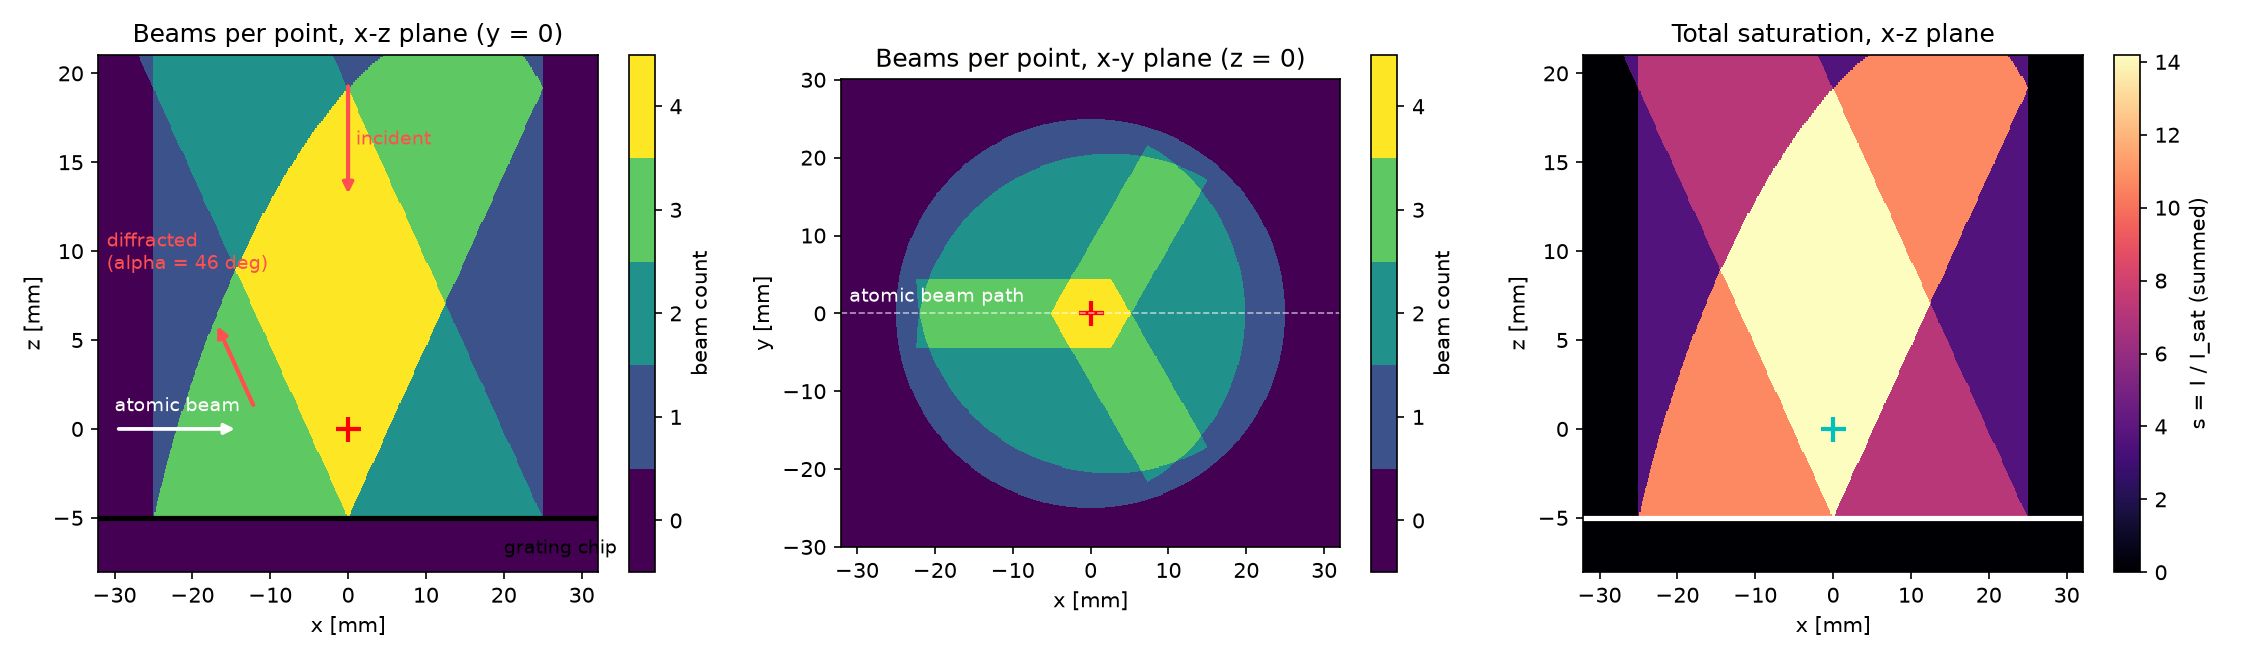
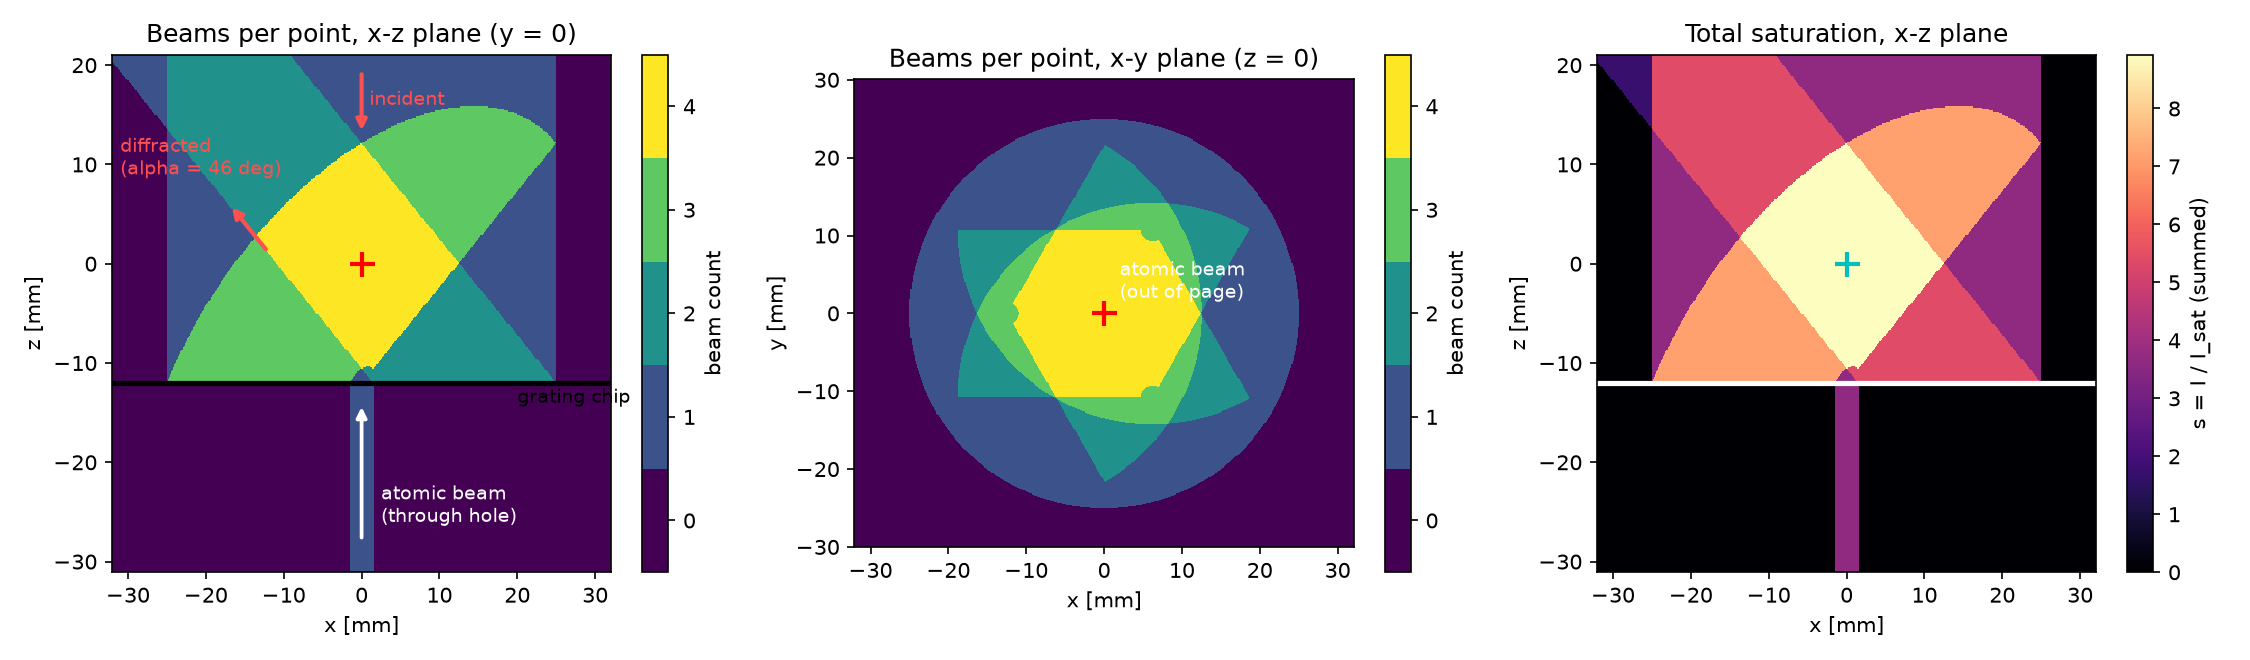
Grating-MOT example: axial through-hole loading geometry
The atomic beam now travels along +z, head-on into the incident MOT
beam, entering from below through a hole in the grating center (the
previous transverse-loading geometry was wrong for this design). The
incident beam transmitted by the hole forms a downward pencil beam that
Doppler-slows atoms below the chip, with the quadrupole field providing
a built-in Zeeman-slower ramp (resonance velocity ~40 m/s at the launch
plane falling to ~7 m/s at the trap).

Key physics found by deterministic mean-force tracing: at s0 ~ 4 the
pencil is a wall, not a matched slower — every atom below the
punch-through speed (~45 m/s) is driven to rest at the stall depth
where the Zeeman shift detunes the light at v = 0,
|z| ~ hbar(|delta| + Gamma/2)/(mu_eff * 2b') ~ 8.5 mm. With the chip
shallower than that (5 mm) atoms stall below the surface and are
expelled (capture ~ 0); with the chip at 12 mm the stall point lies
inside the trap volume and the simulation captures with ~unity
probability over 19-44 m/s, i.e. 1.4e-4 of the 600 K beam flux.

Changes: hole in chip + transmitted pencil in the incident profile,
hole cut from the sector prisms, axial oven-beam sampling with a
--vmin/--vmax flux window, chip default moved to -12 mm with the
stall-depth design rule documented, axial-slowing diagnostic table,
updated plots/GIF extents and chip-hit clipping, docstring physics
notes.

diff --git a/example/mot/mmwave_mot.py b/example/mot/mmwave_mot.py
@@ -3,8 +3,6 @@
 Geometry (all built from the general light-matter parts, no gMOT code
 in the library):
 
-- A hot oven emits a collimated Rb85 atomic beam (600 K, 2 mm diameter,
-  no Zeeman slower) traveling along +x through the trap center.
 - A single uniform (top-hat) MOT beam, 50 mm diameter, 120 mW,
   circularly polarized, propagates along -z — the quadrupole coil axis
   (the strong-gradient direction).
@@ -14,6 +12,12 @@ in the library):
   Handedness flips on diffraction, and each diffracted beam is confined
   to the sheared triangular prism defined by back-projecting onto its
   sector (`LaserBeam.profile`).
+- A hot oven below the chip emits a collimated Rb85 atomic beam (600 K,
+  2 mm diameter, no Zeeman slower) traveling along +z — head-on into
+  the incident MOT beam — through a small hole in the grating center.
+  The incident beam leaks through that hole as a downward pencil beam,
+  so incoming atoms are Doppler-slowed below the chip before they ever
+  reach the trap volume (through-hole loading).
 
 Local polarization projection: at every timestep, each beam's helicity
 is decomposed into sigma+ / pi / sigma- intensity fractions along the
@@ -30,21 +34,27 @@ below it simply see zero light (they are lost in practice and never
 counted as captured); the zeroth diffraction order and grating losses
 are absorbed into the per-sector efficiency.
 
-Two force imbalances shape the trajectories:
+Forces shaping the loading dynamics:
 
 - Static balance: the z-momentum flux ratio of diffracted to incident
   light is exactly `3 * eta` — the 1/cos(alpha) intensity compression
   of each diffracted beam cancels the cos(alpha) projection of its
   push. Only `eta = 1/3` balances; larger eta ejects slow atoms upward,
   smaller lets the incident beam press the cloud toward the chip.
-- Doppler tilt (why the incoming flux sags toward the chip): for an
-  atom crossing at ~20 m/s the incident beam is perpendicular to the
-  motion (no Doppler shift, full scattering rate, pushing down), while
-  the up-pushing diffracted beams with a co-propagating +x component
-  are Doppler-shifted ~1.5 Gamma out of resonance. The one diffracted
-  beam that is counter-propagating (and Doppler-enhanced) only exists
-  downstream of the trap center. Net: every fast atom is pushed toward
-  the chip while it approaches, independent of eta.
+- Axial slowing: a rising atom is head-on with the incident beam
+  (Doppler-enhanced, resonant near `v = |delta|/k` shifted up by the
+  Zeeman term, which grows with depth — a built-in Zeeman-slower ramp)
+  while the three diffracted beams co-propagate with it and are
+  Doppler-suppressed. On axis the transverse pushes of the three
+  diffracted beams cancel by symmetry.
+- Stall depth sets the chip position: at s0 ~ 4 the pencil beam is a
+  wall, not a gentle slower — every atom below the punch-through speed
+  (~45 m/s here) is driven to rest at the depth where the Zeeman shift
+  detunes the light at v = 0, `|z| ~ hbar(|delta| + Gamma/2) /
+  (mu_eff * 2b')` (~8.5 mm). If the chip is shallower than that, atoms
+  stall below the surface and are expelled back down the beamline
+  (capture ~ 0); if deeper, they stall inside the trap volume and are
+  captured with near-unity probability over the whole window.
 
 Because a 600 K beam is far faster than any MOT capture velocity, only
 the slow Boltzmann tail can be captured. The simulation samples the
@@ -99,13 +109,21 @@ GRADIENT_G_PER_CM = 5.0  # radial; axial (beam axis) is twice this
 # --- grating chip --------------------------------------------------------
 DEFLECTION_ALPHA_RAD = np.deg2rad(46.0)
 SECTOR_AZIMUTHS_RAD = np.deg2rad([0.0, 120.0, 240.0])
-DIFFRACTION_EFFICIENCY = 2.0 / 3.0  # power fraction into each +1 order
-CHIP_Z_M = -5.0e-3  # chip surface below the quadrupole zero
+# Power fraction into each sector's used +1 order. Radiation-pressure
+# balance requires 3 * eta = 1; other values give no stable trap.
+DIFFRACTION_EFFICIENCY = 1.0 / 3.0
+# Chip depth below the quadrupole zero. Must exceed the pencil-beam
+# stall depth |z| ~ hbar(|delta| + Gamma/2) / (mu_eff * 2b') (~8.5 mm
+# here): incoming atoms decelerate to rest at that depth, and only if
+# the stall point lies ABOVE the chip - inside the trap volume - are
+# they captured instead of falling back down the beamline.
+CHIP_Z_M = -12.0e-3
+GRATING_HOLE_RADIUS_M = 1.5e-3  # central hole passing the atomic beam
 
 # --- atomic beam ---------------------------------------------------------
 OVEN_TEMPERATURE_K = 600.0
-ATOM_BEAM_RADIUS_M = 1.0e-3  # 2 mm diameter, aimed through the trap center
-ATOM_BEAM_START_X_M = -30.0e-3
+ATOM_BEAM_RADIUS_M = 1.0e-3  # 2 mm diameter, aimed up the +z axis
+ATOM_BEAM_START_Z_M = -30.0e-3  # launch plane below the chip
 DIVERGENCE_HALF_ANGLE_RAD = 10.0e-3  # residual collimation spread
 
 
@@ -122,7 +140,11 @@ def build_beams(detuning_hz: float) -> list[LaserBeam]:
     def incident_profile(positions):
         pos = np.asarray(positions, dtype=float)
         rho = np.hypot(pos[..., 0], pos[..., 1])
-        return ((rho <= MOT_BEAM_RADIUS_M) & (pos[..., 2] >= CHIP_Z_M)).astype(float)
+        above_chip = (rho <= MOT_BEAM_RADIUS_M) & (pos[..., 2] >= CHIP_Z_M)
+        # The chip blocks the beam except for the central hole, which
+        # transmits a downward pencil beam into the atomic-beam path.
+        through_hole = (rho <= GRATING_HOLE_RADIUS_M) & (pos[..., 2] < CHIP_Z_M)
+        return (above_chip | through_hole).astype(float)
 
     beams = [
         LaserBeam(
@@ -173,7 +195,12 @@ def _sector_profile(direction: np.ndarray, phi_center_rad: float):
         rho = np.hypot(foot_x, foot_y)
         dphi = np.arctan2(foot_y, foot_x) - phi_center_rad
         dphi = (dphi + np.pi) % (2.0 * np.pi) - np.pi
-        inside = (t >= 0.0) & (rho <= MOT_BEAM_RADIUS_M) & (np.abs(dphi) <= np.pi / 3.0)
+        inside = (
+            (t >= 0.0)
+            & (rho <= MOT_BEAM_RADIUS_M)
+            & (rho >= GRATING_HOLE_RADIUS_M)  # no grating in the hole
+            & (np.abs(dphi) <= np.pi / 3.0)
+        )
         return inside.astype(float)
 
     return profile
@@ -193,51 +220,57 @@ def build_system(detuning_gamma: float) -> LightMatterSystem:
 
 
 def sample_oven_beam(
-    n_atoms: int, v_max: float, rng: np.random.Generator
+    n_atoms: int, v_min: float, v_max: float, rng: np.random.Generator
 ) -> tuple[np.ndarray, np.ndarray, float]:
-    """Sample the slow tail of the effusive beam.
+    """Sample a slow-velocity window of the effusive beam.
 
     Returns positions, velocities, and the fraction of the total beam
-    flux carried by the simulated window `v < v_max` (analytic:
-    `1 - exp(-u)(1 + u)` with `u = v_max^2 / 2 sigma^2` for the
-    `v^3 exp(-v^2/2 sigma^2)` flux distribution).
+    flux carried by the simulated window `v_min < v < v_max`. For the
+    `v^3 exp(-v^2/2 sigma^2)` flux distribution the cumulative fraction
+    below `v` is `F(v) = 1 - exp(-u)(1 + u)` with `u = v^2 / 2 sigma^2`.
     """
 
     sigma = np.sqrt(BOLTZMANN_CONSTANT_J_PER_K * OVEN_TEMPERATURE_K / SPECIES.mass_kg)
-    u = v_max**2 / (2.0 * sigma**2)
-    window_fraction = float(1.0 - np.exp(-u) * (1.0 + u))
 
-    # Rejection sampling of f(v) ~ v^3 exp(-v^2/2s^2) on (0, v_max]:
-    # envelope v^3 (inverse-CDF v_max * u^(1/4)), accept with the
-    # Gaussian factor (nearly 1 for v_max << sigma).
+    def flux_cdf(v: float) -> float:
+        u = v**2 / (2.0 * sigma**2)
+        return float(1.0 - np.exp(-u) * (1.0 + u))
+
+    window_fraction = flux_cdf(v_max) - flux_cdf(v_min)
+
+    # Rejection sampling of f(v) ~ v^3 exp(-v^2/2s^2) on [v_min, v_max]:
+    # envelope v^3 (inverse CDF of v^3 restricted to the window), accept
+    # with the Gaussian factor (nearly 1 for v_max << sigma).
     speeds = np.empty(0)
     while speeds.size < n_atoms:
-        candidates = v_max * rng.random(2 * n_atoms) ** 0.25
+        quantile = rng.random(2 * n_atoms)
+        candidates = (v_min**4 + quantile * (v_max**4 - v_min**4)) ** 0.25
         accept = rng.random(candidates.size) < np.exp(
             -(candidates**2) / (2.0 * sigma**2)
         )
         speeds = np.concatenate([speeds, candidates[accept]])
     speeds = speeds[:n_atoms]
 
-    # Transverse launch position: uniform disc aimed through the origin.
+    # Transverse launch position: uniform disc on the +z axis, below the
+    # chip, aimed up through the grating hole at the trap center.
     disc_phi = rng.uniform(0.0, 2.0 * np.pi, n_atoms)
     disc_r = ATOM_BEAM_RADIUS_M * np.sqrt(rng.random(n_atoms))
     positions = np.column_stack(
         [
-            np.full(n_atoms, ATOM_BEAM_START_X_M),
             disc_r * np.cos(disc_phi),
             disc_r * np.sin(disc_phi),
+            np.full(n_atoms, ATOM_BEAM_START_Z_M),
         ]
     )
 
-    # Residual divergence: velocity tilted by a small random angle.
+    # Residual divergence: velocity tilted by a small random angle off +z.
     theta = DIVERGENCE_HALF_ANGLE_RAD * np.sqrt(rng.random(n_atoms))
     tilt_phi = rng.uniform(0.0, 2.0 * np.pi, n_atoms)
     velocities = np.column_stack(
         [
-            speeds * np.cos(theta),
             speeds * np.sin(theta) * np.cos(tilt_phi),
             speeds * np.sin(theta) * np.sin(tilt_phi),
+            speeds * np.cos(theta),
         ]
     )
     return positions, velocities, window_fraction
@@ -272,23 +305,30 @@ def print_diagnostics(system: LightMatterSystem) -> None:
         f = system.mean_radiation_force(np.array([r]), np.zeros((1, 3)))[0]
         print(f"  {label}: F = ({f[0]:+.2e}, {f[1]:+.2e}, {f[2]:+.2e}) N")
 
-    print("\nDeceleration vs longitudinal velocity (atom at origin):")
-    print("  v_x [m/s]   a_x [km/s^2]")
-    for vx in (2.0, 5.0, 10.0, 15.0, 20.0, 25.0, 30.0):
-        f = system.mean_radiation_force(np.zeros((1, 3)), np.array([[vx, 0.0, 0.0]]))[0]
-        print(f"  {vx:8.1f}   {f[0] / SPECIES.mass_kg / 1e3:+12.2f}")
+    print(
+        "\nAxial deceleration vs climb velocity "
+        "(in the pencil beam below the chip, and at the trap center):"
+    )
+    below = np.array([[0.0, 0.0, -15.0e-3]])
+    center = np.zeros((1, 3))
+    print("  v_z [m/s]   a_z(-15 mm) [km/s^2]   a_z(0) [km/s^2]")
+    for vz in (2.0, 5.0, 10.0, 15.0, 20.0, 25.0, 30.0):
+        v = np.array([[0.0, 0.0, vz]])
+        a_below = system.mean_radiation_force(below, v)[0, 2] / SPECIES.mass_kg / 1e3
+        a_center = system.mean_radiation_force(center, v)[0, 2] / SPECIES.mass_kg / 1e3
+        print(f"  {vz:8.1f}   {a_below:+18.2f}   {a_center:+14.2f}")
     print()
 
 
 def _beams_figure(system: LightMatterSystem, save: bool) -> None:
     """Map the four beam volumes: counts and total saturation.
 
-    Left: how many beams illuminate each point of the vertical x-z plane
-    (y = 0, the plane of the atomic beam). Middle: the same count in the
-    horizontal x-y plane at the trap height, showing the three sector
-    prisms. Right: total saturation in x-z. The atomic beam enters along
-    z = 0 from the left; full radiation-pressure balance exists only
-    where all four beams overlap.
+    Left: how many beams illuminate each point of the vertical x-z
+    plane. Middle: the same count in the horizontal x-y plane at the
+    trap height, showing the three sector prisms. Right: total
+    saturation in x-z. The atomic beam climbs the +z axis from below,
+    through the pencil beam transmitted by the grating hole; full
+    radiation-pressure balance exists only where all four beams overlap.
     """
 
     import matplotlib
@@ -312,7 +352,7 @@ def _beams_figure(system: LightMatterSystem, save: bool) -> None:
         return count, total
 
     x_mm = np.linspace(-32.0, 32.0, 481)
-    z_mm = np.linspace(CHIP_Z_M * 1e3 - 3.0, 21.0, 241)
+    z_mm = np.linspace(ATOM_BEAM_START_Z_M * 1e3 - 1.0, 21.0, 361)
     y_mm = np.linspace(-30.0, 30.0, 451)
     count_xz, total_xz = sample_plane(x_mm * 1e-3, z_mm * 1e-3, "xz")
     count_xy, _ = sample_plane(x_mm * 1e-3, y_mm * 1e-3, "xy")
@@ -329,10 +369,12 @@ def _beams_figure(system: LightMatterSystem, save: bool) -> None:
     )
     axes[0].plot(0.0, 0.0, "r+", ms=12, mew=2)
     axes[0].annotate(
-        "", xy=(-14.0, 0.0), xytext=(-30.0, 0.0),
+        "", xy=(0.0, -14.0), xytext=(0.0, -28.0),
         arrowprops=dict(arrowstyle="-|>", color="w", lw=1.8),
     )
-    axes[0].annotate("atomic beam", (-30.0, 1.0), color="w", fontsize=9)
+    axes[0].annotate(
+        "atomic beam\n(through hole)", (2.5, -26.0), color="w", fontsize=9
+    )
     axes[0].annotate(
         "", xy=(0.0, 13.0), xytext=(0.0, 19.5),
         arrowprops=dict(arrowstyle="-|>", color="#ff5050", lw=2.0),
@@ -361,8 +403,9 @@ def _beams_figure(system: LightMatterSystem, save: bool) -> None:
         x_mm, y_mm, count_xy, cmap=count_cmap, vmin=-0.5, vmax=4.5, shading="auto"
     )
     axes[1].plot(0.0, 0.0, "r+", ms=12, mew=2)
-    axes[1].axhline(0.0, color="w", lw=0.8, ls="--", alpha=0.6)
-    axes[1].annotate("atomic beam path", (-31.0, 1.5), color="w", fontsize=9)
+    axes[1].annotate(
+        "atomic beam\n(out of page)", (2.0, 2.0), color="w", fontsize=9
+    )
     axes[1].set_xlabel("x [mm]")
     axes[1].set_ylabel("y [mm]")
     axes[1].set_title("Beams per point, x-y plane (z = 0)")
@@ -390,10 +433,16 @@ def main() -> None:
     parser = argparse.ArgumentParser(description=__doc__)
     parser.add_argument("--atoms", type=int, default=250)
     parser.add_argument(
+        "--vmin",
+        type=float,
+        default=0.0,
+        help="lower edge of the simulated velocity window [m/s]",
+    )
+    parser.add_argument(
         "--vmax",
         type=float,
-        default=30.0,
-        help="upper edge of the simulated slow-velocity window [m/s]",
+        default=55.0,
+        help="upper edge of the simulated velocity window [m/s]",
     )
     parser.add_argument("--duration-ms", type=float, default=30.0)
     parser.add_argument("--detuning-gamma", type=float, default=DETUNING_GAMMA)
@@ -433,7 +482,7 @@ def main() -> None:
         return
     rng = np.random.default_rng(args.seed)
     positions, velocities, window_fraction = sample_oven_beam(
-        args.atoms, args.vmax, rng
+        args.atoms, args.vmin, args.vmax, rng
     )
 
     s_inc = incident_saturation()
@@ -457,7 +506,7 @@ def main() -> None:
     note = "" if abs(balance - 1.0) < 0.05 else "  <-- UNBALANCED, no stable trap"
     print(f"  z-momentum balance  : 3*eta = {balance:.2f} (1.00 = balanced){note}")
     print(
-        f"  simulated window    : v < {args.vmax:.0f} m/s = "
+        f"  simulated window    : {args.vmin:.0f} < v < {args.vmax:.0f} m/s = "
         f"{window_fraction:.2e} of the beam flux\n"
     )
 
@@ -547,9 +596,9 @@ def _render_gif(result, system: LightMatterSystem) -> None:
         plane="xz",
         beams=system.beams,
         doppler_limit_uK=system.species.doppler_temperature_uK,
-        # Asymmetric window: keep the grating chip (z = -10 mm) and the
-        # incoming beam path in view rather than auto-centering.
-        extent_mm=(-32.0, 32.0, -13.0, 18.0),
+        # Asymmetric window: keep the grating chip and the atomic-beam
+        # climb from below in view rather than auto-centering.
+        extent_mm=(-22.0, 22.0, ATOM_BEAM_START_Z_M * 1e3 - 1.0, 20.0),
         n_frames=80,
         fps=16,
         dpi=85,
@@ -566,12 +615,15 @@ def _plot(result, captured, save: bool, show: bool = False) -> None:
 
     fig, axes = plt.subplots(1, 3, figsize=(14, 4.2))
 
-    # x-z trajectories with the chip and grating sketch. Atoms that hit
-    # the chip are not propagated as a physical collision (they only see
-    # zero light below it), so clip their trajectories at the surface.
+    # x-z trajectories with the chip sketch. The chip is not a physical
+    # barrier in the model, so clip an atom's trace once it is below the
+    # surface while outside the hole (i.e. once it has hit the chip).
     traj_mm = result.trajectory_positions_m.copy() * 1e3
-    below = np.cumsum(traj_mm[:, :, 2] < CHIP_Z_M * 1e3, axis=0) > 0
-    traj_mm[below] = np.nan
+    rho_mm = np.hypot(traj_mm[:, :, 0], traj_mm[:, :, 1])
+    hit_chip = (traj_mm[:, :, 2] < CHIP_Z_M * 1e3) & (
+        rho_mm > GRATING_HOLE_RADIUS_M * 1e3
+    )
+    traj_mm[np.cumsum(hit_chip, axis=0) > 0] = np.nan
     n_atoms = traj_mm.shape[1]
     for atom in range(n_atoms):
         color = "C1" if captured[atom] else "C0"
@@ -579,10 +631,12 @@ def _plot(result, captured, save: bool, show: bool = False) -> None:
         axes[0].plot(
             traj_mm[:, atom, 0], traj_mm[:, atom, 2], lw=0.6, color=color, alpha=alpha
         )
-    axes[0].axhline(CHIP_Z_M * 1e3, color="k", lw=2)
+    hole_mm = GRATING_HOLE_RADIUS_M * 1e3
+    axes[0].plot([-22, -hole_mm], [CHIP_Z_M * 1e3] * 2, "k-", lw=2)
+    axes[0].plot([hole_mm, 22], [CHIP_Z_M * 1e3] * 2, "k-", lw=2)
     axes[0].plot(0.0, 0.0, "r+", ms=10)
-    axes[0].set_xlim(-32, 32)
-    axes[0].set_ylim(-14, 20)
+    axes[0].set_xlim(-22, 22)
+    axes[0].set_ylim(ATOM_BEAM_START_Z_M * 1e3 - 1.0, 20)
     axes[0].set_xlabel("x [mm]")
     axes[0].set_ylabel("z [mm]")
     axes[0].set_title("Trajectories (orange = captured)")
